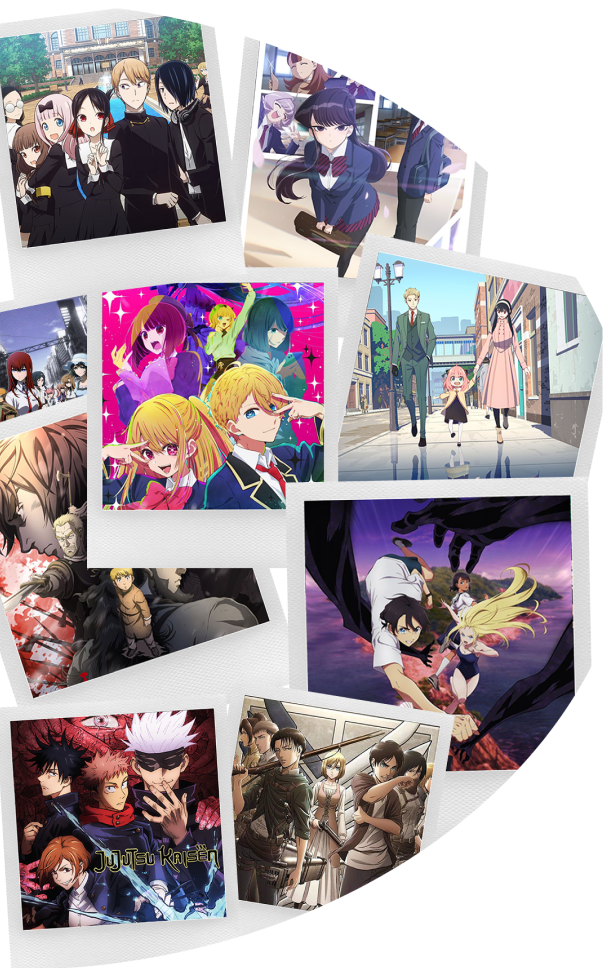
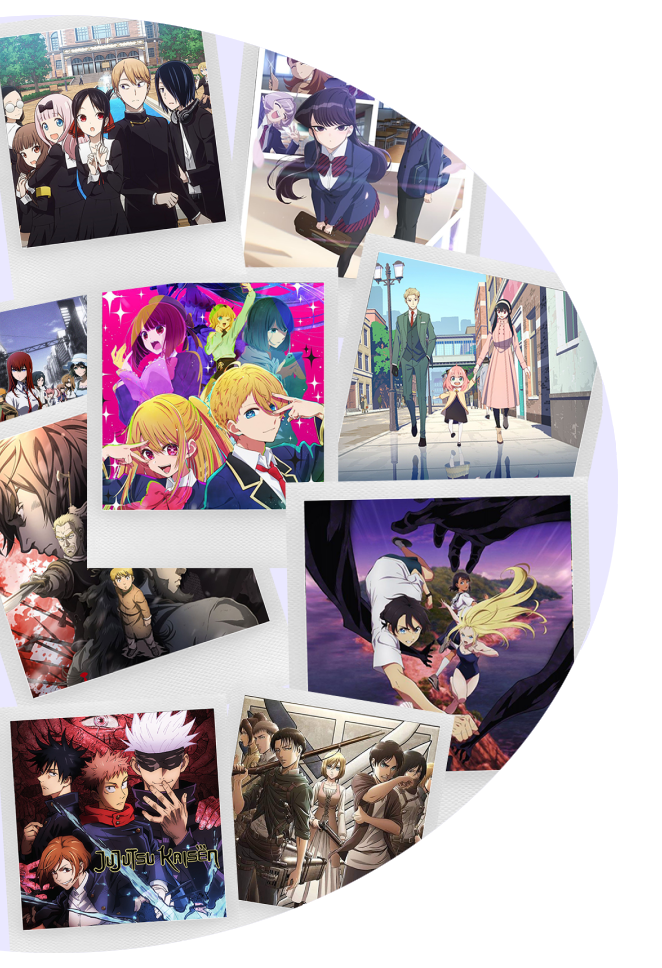
responsive

diff --git a/src/components/navbar/Navbar.vue b/src/components/navbar/Navbar.vue
@@ -1,19 +1,65 @@
 <template>
-  <v-row class="flex h-[11vh]  items-center space-x-10 bg-secondary p-5 drop-shadow-md">
+  <v-app-bar app class="drop-shadow-md" :color="COLORS.SECONDARY">
+    <v-app-bar-nav-icon v-if="!isLargeScreen" @click="drawer = !drawer" />
+
     <RouterLink to="/">
-      <h1 class="font-Lemon text-5xl text-mainText drop-shadow-2xl">
+      <h1 v-if="isLargeScreen" class="font-Lemon text-5xl text-mainText drop-shadow-2xl px-3">
         <b>AnimeDle</b>
       </h1>
+      <h1 v-else class="font-Lemon text-5xl text-mainText drop-shadow-2xl px-3">
+        <b>A</b>
+      </h1>
     </RouterLink>
-    <RouterLink class="font-Lemon text-2xl text-mainText drop-shadow-2xl" to="/play">
-      jouer
-    </RouterLink>
-    <RouterLink class="font-Lemon text-2xl text-mainText drop-shadow-2xl" to="/rules">
-      règles
-    </RouterLink>
-  </v-row>
+
+    <v-spacer></v-spacer>
+
+    <div v-if="isLargeScreen" class="space-x-10 px-10">
+      <RouterLink class="font-Lemon text-2xl text-mainText drop-shadow-2xl" to="/play">
+        jouer
+      </RouterLink>
+      <RouterLink class="font-Lemon text-2xl text-mainText drop-shadow-2xl" to="/rules">
+        règles
+      </RouterLink>
+    </div>
+  </v-app-bar>
+
+  <v-navigation-drawer app v-model="drawer" temporary class="md:hidden" :color="COLORS.SECONDARY">
+    <v-list>
+      <v-list-item>
+        <RouterLink class="font-Lemon text-2xl text-mainText drop-shadow-2xl" to="/play">
+          jouer
+        </RouterLink>
+      </v-list-item>
+      <v-list-item>
+        <RouterLink class="font-Lemon text-2xl text-mainText drop-shadow-2xl" to="/rules">
+          règles
+        </RouterLink>
+      </v-list-item>
+    </v-list>
+  </v-navigation-drawer>
 </template>
 
-<script setup>
-import {RouterLink} from 'vue-router';
+<script>
+import { COLORS } from '@/constants/colors.js';
+
+export default {
+  data() {
+    return {
+      COLORS,
+      drawer: false,
+      isLargeScreen: window.innerWidth >= 640,
+    };
+  },
+  mounted() {
+    window.addEventListener('resize', this.onResize);
+  },
+  beforeUnmount() {
+    window.removeEventListener('resize', this.onResize);
+  },
+  methods: {
+    onResize() {
+      this.isLargeScreen = window.innerWidth >= 640;
+    },
+  },
+};
 </script>

diff --git a/src/views/MainView.vue b/src/views/MainView.vue
@@ -1,13 +1,11 @@
 <template>
-  <div class="h-[93vh] bg-main">
-    <section class="flex h-full">
-      <div class="h-2/4 w-2/4">
-        <img :src="imgAccueil" alt="image de pleins d'anime" class="rounded-r-[1300px] bg-mainText" />
-      </div>
-      <div class="flex h-3/4 w-full items-center justify-center">
-        <h1 class="font-Itim text-9xl text-mainText drop-shadow-2xl">
+  <div class="h-[93vh] bg-main flex flex-col justify-center items-center">
+    <section class="flex flex-col lg:flex-row h-full w-full items-center">
+      <img :src="isSmallScreen ? imgAccueil_res : imgAccueil" alt="image de pleins d'anime" :class="[isSmallScreen ? 'w-[100vw]' : 'w-[40vw]', 'max-w-[600px]']"/>
+      <div class="items-center justify-center p-10">
+        <h1  class="font-Itim text-mainText drop-shadow-2xl text-[8vw] " >
           Bienvenue sur
-          <p class="font-Lemon font-bold underline">
+          <p class="font-Lemon font-bold underline text-[10vw]">
             AnimeDle
           </p>
         </h1>
@@ -18,14 +16,30 @@
 
 <script>
 import imgAccueil from '@/assets/images/accueil.png';
+import imgAccueil_res from '@/assets/images/accueil_res.png';
 
 export default {
   data() {
     return {
       imgAccueil,
+      imgAccueil_res,
+      isSmallScreen: window.innerWidth < 1024,
     };
   },
+  mounted() {
+    window.addEventListener('resize', this.handleResize);
+  },
+  beforeUnmount() {
+    window.removeEventListener('resize', this.handleResize);
+  },
+  methods: {
+    handleResize() {
+      this.isSmallScreen = window.innerWidth < 1024;
+    },
+  },
 };
-
-
 </script>
+
+<style scoped>
+/* Vous pouvez ajouter des styles supplémentaires ici si nécessaire */
+</style>

diff --git a/tailwind.config.js b/tailwind.config.js
@@ -1,15 +1,21 @@
 /** @type {import('tailwindcss').Config} */
+import {COLORS} from './src/constants/colors';
+
 export default {
-  content: ['./index.html', './src/**/*.{js,ts,jsx,tsx,vue}'],
+  content: [
+    './index.html',
+    './src/**/*.{js,ts,jsx,tsx,vue}',
+  ],
+
   theme: {
     extend: {
       colors: {
-        main: '#444961',
-        secondary: '#2D3142',
-        mainText: '#EAE8FF',
-        secondaryText: '#D4D0FF',
-        button: '#D4D0FF',
-        button_sh: '#B3ACFF',
+        main: COLORS.MAIN,
+        secondary: COLORS.SECONDARY,
+        mainText: COLORS.MAIN_TEXT,
+        secondaryText: COLORS.SECONDARY_TEXT,
+        button: COLORS.BUTTON,
+        button_sh: COLORS.BUTTON_SH,
       },
       fontFamily: {
         Lemon: ['Lemon', 'Regular'],

diff --git a/src/main.js b/src/main.js
@@ -1,25 +1,23 @@
-import './assets/main.css';
-
 import {createApp} from 'vue';
 import App from './App.vue';
 import router from './router/index.js';
+import './assets/main.css';
 import 'vuetify/styles';
 import {createVuetify} from 'vuetify';
-import * as components from 'vuetify/components';
-import * as directives from 'vuetify/directives';
 import '@mdi/font/css/materialdesignicons.css';
 
 const app = createApp(App);
 
+// Utilisation du routeur
 app.use(router);
 
 
+
+
+// Configuration de Vuetify
 const vuetify = createVuetify({
   theme: false,
-  components,
-  directives,
 });
 
+// Utilisation de Vuetify
 app.use(vuetify).mount('#app');
-
- 

diff --git a/src/views/Rules.vue b/src/views/Rules.vue
@@ -1,6 +1,6 @@
 <template>
-  <div class='flex h-[93vh] items-center justify-center bg-main text-white '>
-    <div class='max-w-2xl rounded-lg bg-secondary p-8 shadow-md ma-5'>
+  <div class='flex h-[93vh] items-center justify-center bg-main text-white my-3'>
+    <div class='max-w-2xl rounded-lg bg-secondary p-8 shadow-md ma-5 max-h-full overflow-auto'>
       <h2 class='mb-4 font-Lemon text-3xl'>Comment jouer :</h2>
 
       <v-col class='mb-8'>

diff --git a/src/components/Button/ButtonGamemode.vue b/src/components/Button/ButtonGamemode.vue
@@ -1,5 +1,5 @@
 <template>
-  <div class="my-7 flex space-x-5">
+  <div class="my-7 flex flex-col lg:flex-row space-x-5 space-y-10 lg:space-y-0">
     <button
       class="bg-button shadow-button_sh flex h-16 w-64 items-center justify-center rounded-2xl text-5xl shadow-[0_0_25px_6px] font-Lemon text-secondary"
       @click="$emit('link-click',link)"

diff --git a/src/assets/main.css b/src/assets/main.css
@@ -16,3 +16,12 @@
 html {
     overflow: hidden !important;
 }
+
+/* Ajouter un défilement uniquement sur les petits écrans */
+/*@media screen and (max-width: 600px) {
+    html {
+        overflow-y: auto !important;
+        overflow-x: hidden !important;
+    }
+}
+*/

diff --git a/src/App.vue b/src/App.vue
@@ -1,9 +1,13 @@
 <template>
   <div>
-    <header>
-      <Navbar />
-    </header>
-    <RouterView />
+    <v-app>
+      <header>
+        <Navbar />
+      </header>
+      <v-main>
+          <RouterView />
+      </v-main>
+    </v-app>
   </div>
 </template>
 

diff --git a/index.html b/index.html
@@ -6,7 +6,7 @@
   <meta name="viewport" content="width=device-width, initial-scale=1.0">
   <title>AnimeDle</title>
 </head>
-<body>
+<body class="bg-main h-full w-full">
 <div id="app"></div>
 <script type="module" src="/src/main.js"></script>
 </body>

diff --git a/src/constants/colors.js b/src/constants/colors.js
@@ -1,0 +1,8 @@
+export const COLORS = {
+    MAIN: '#444961',
+    SECONDARY: '#2D3142',
+    MAIN_TEXT: '#EAE8FF',
+    SECONDARY_TEXT: '#D4D0FF',
+    BUTTON: '#D4D0FF',
+    BUTTON_SH: '#B3ACFF',
+};
